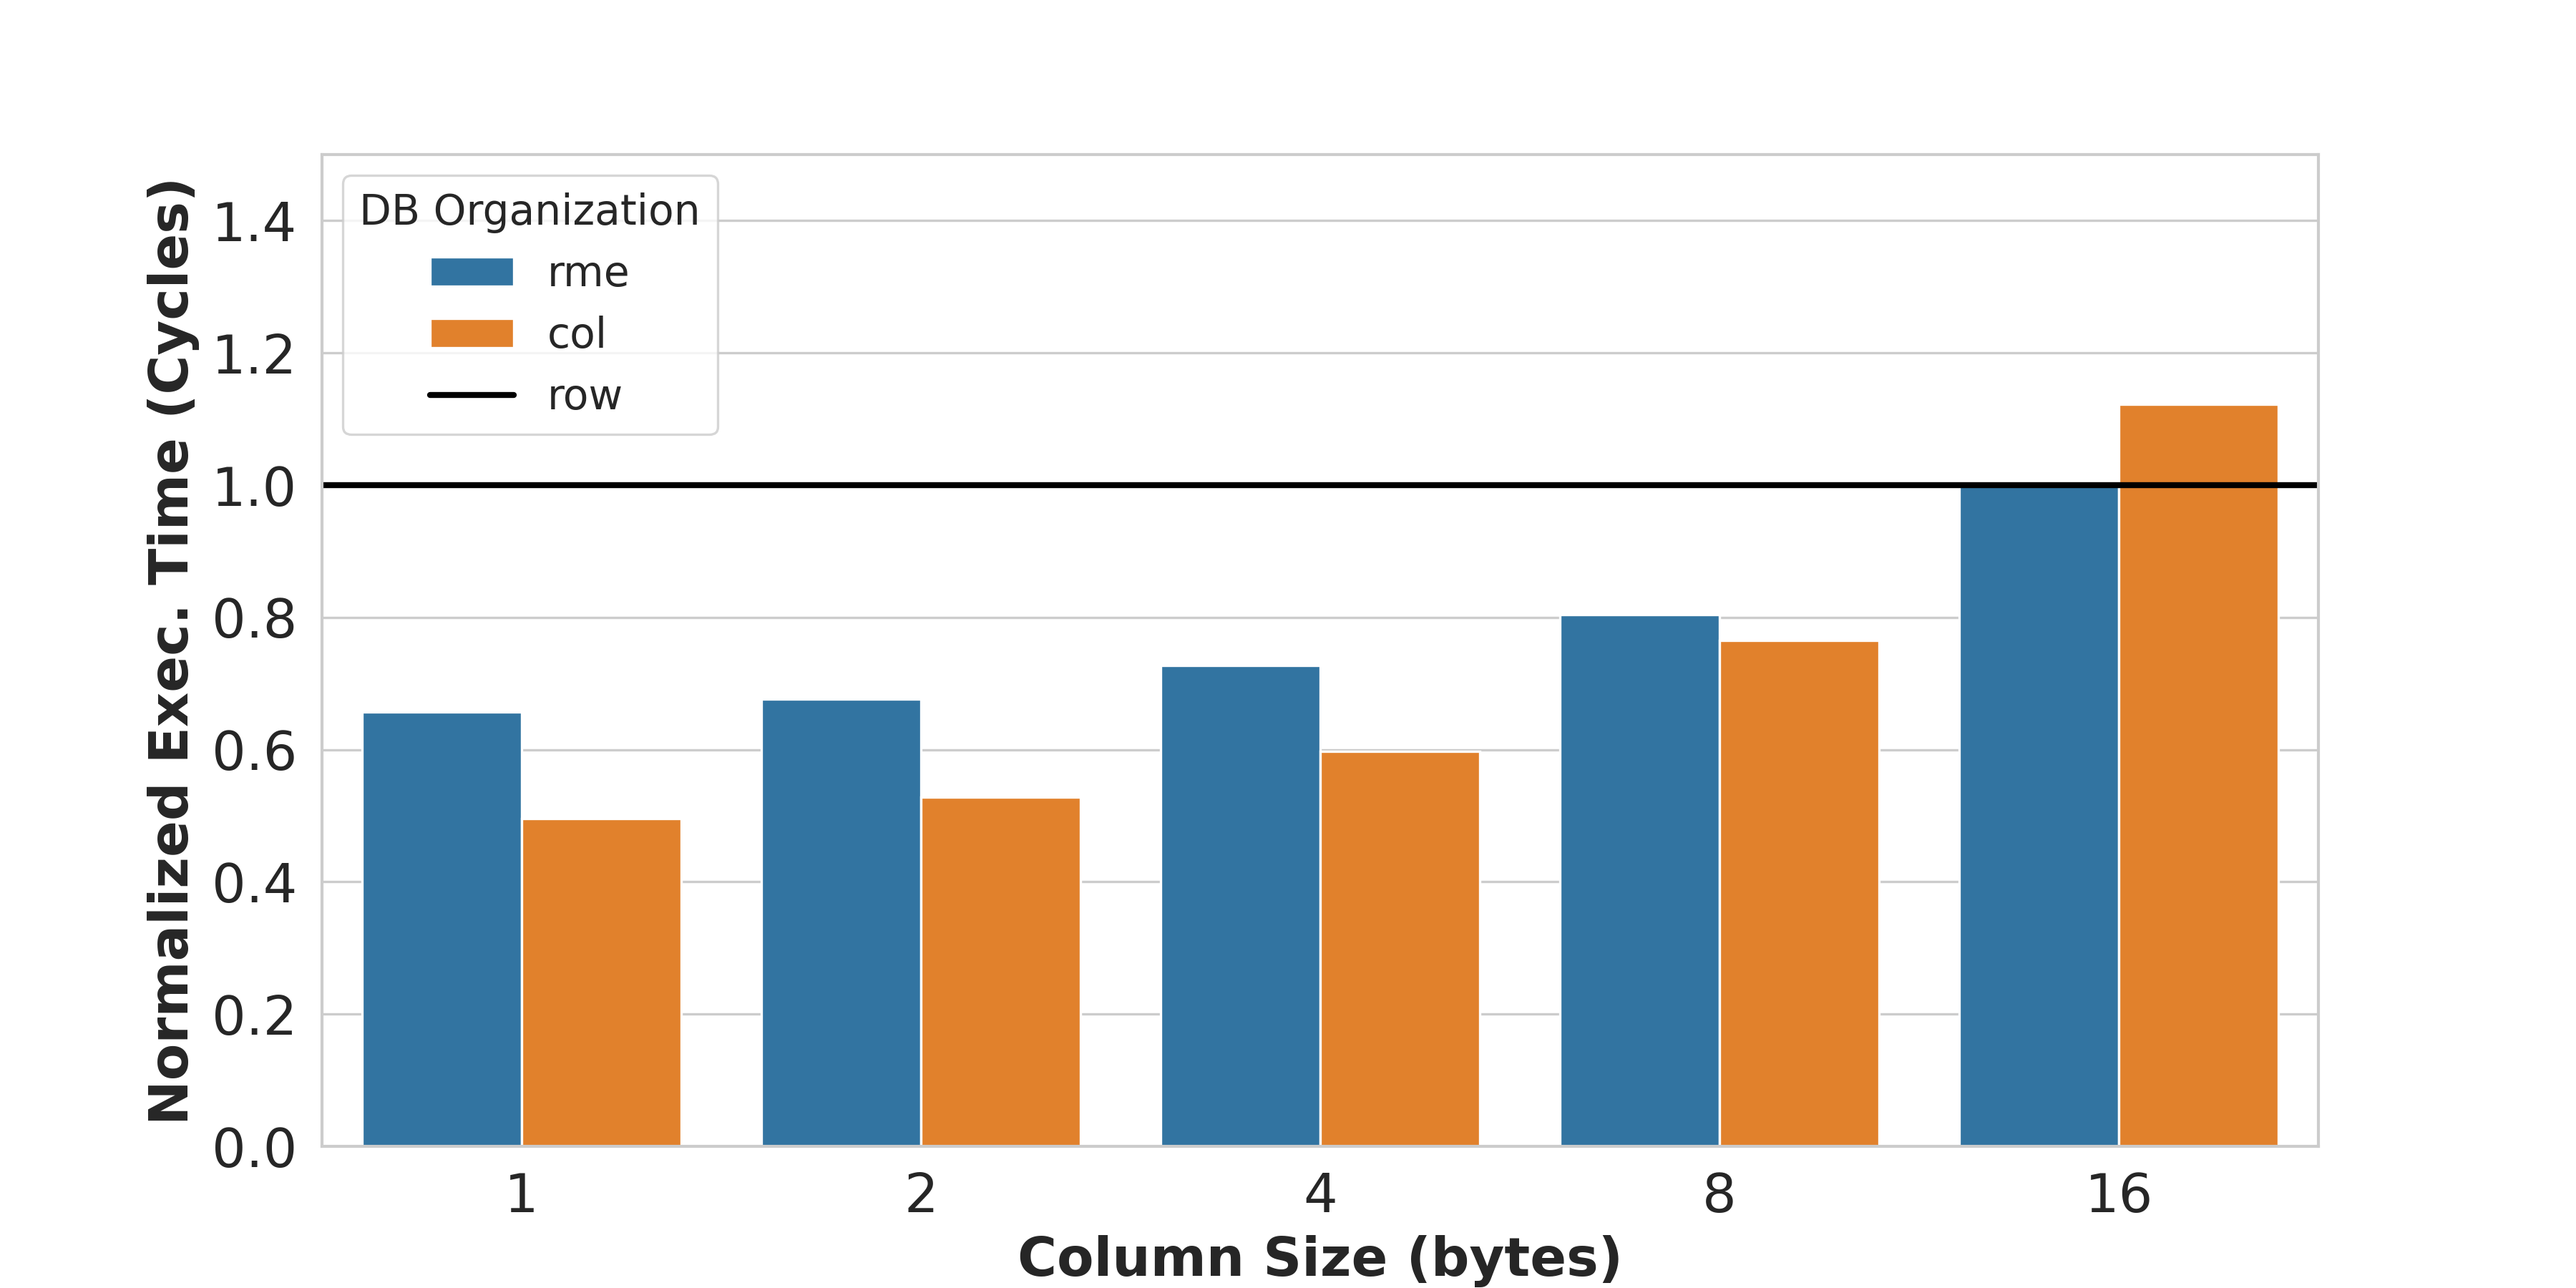
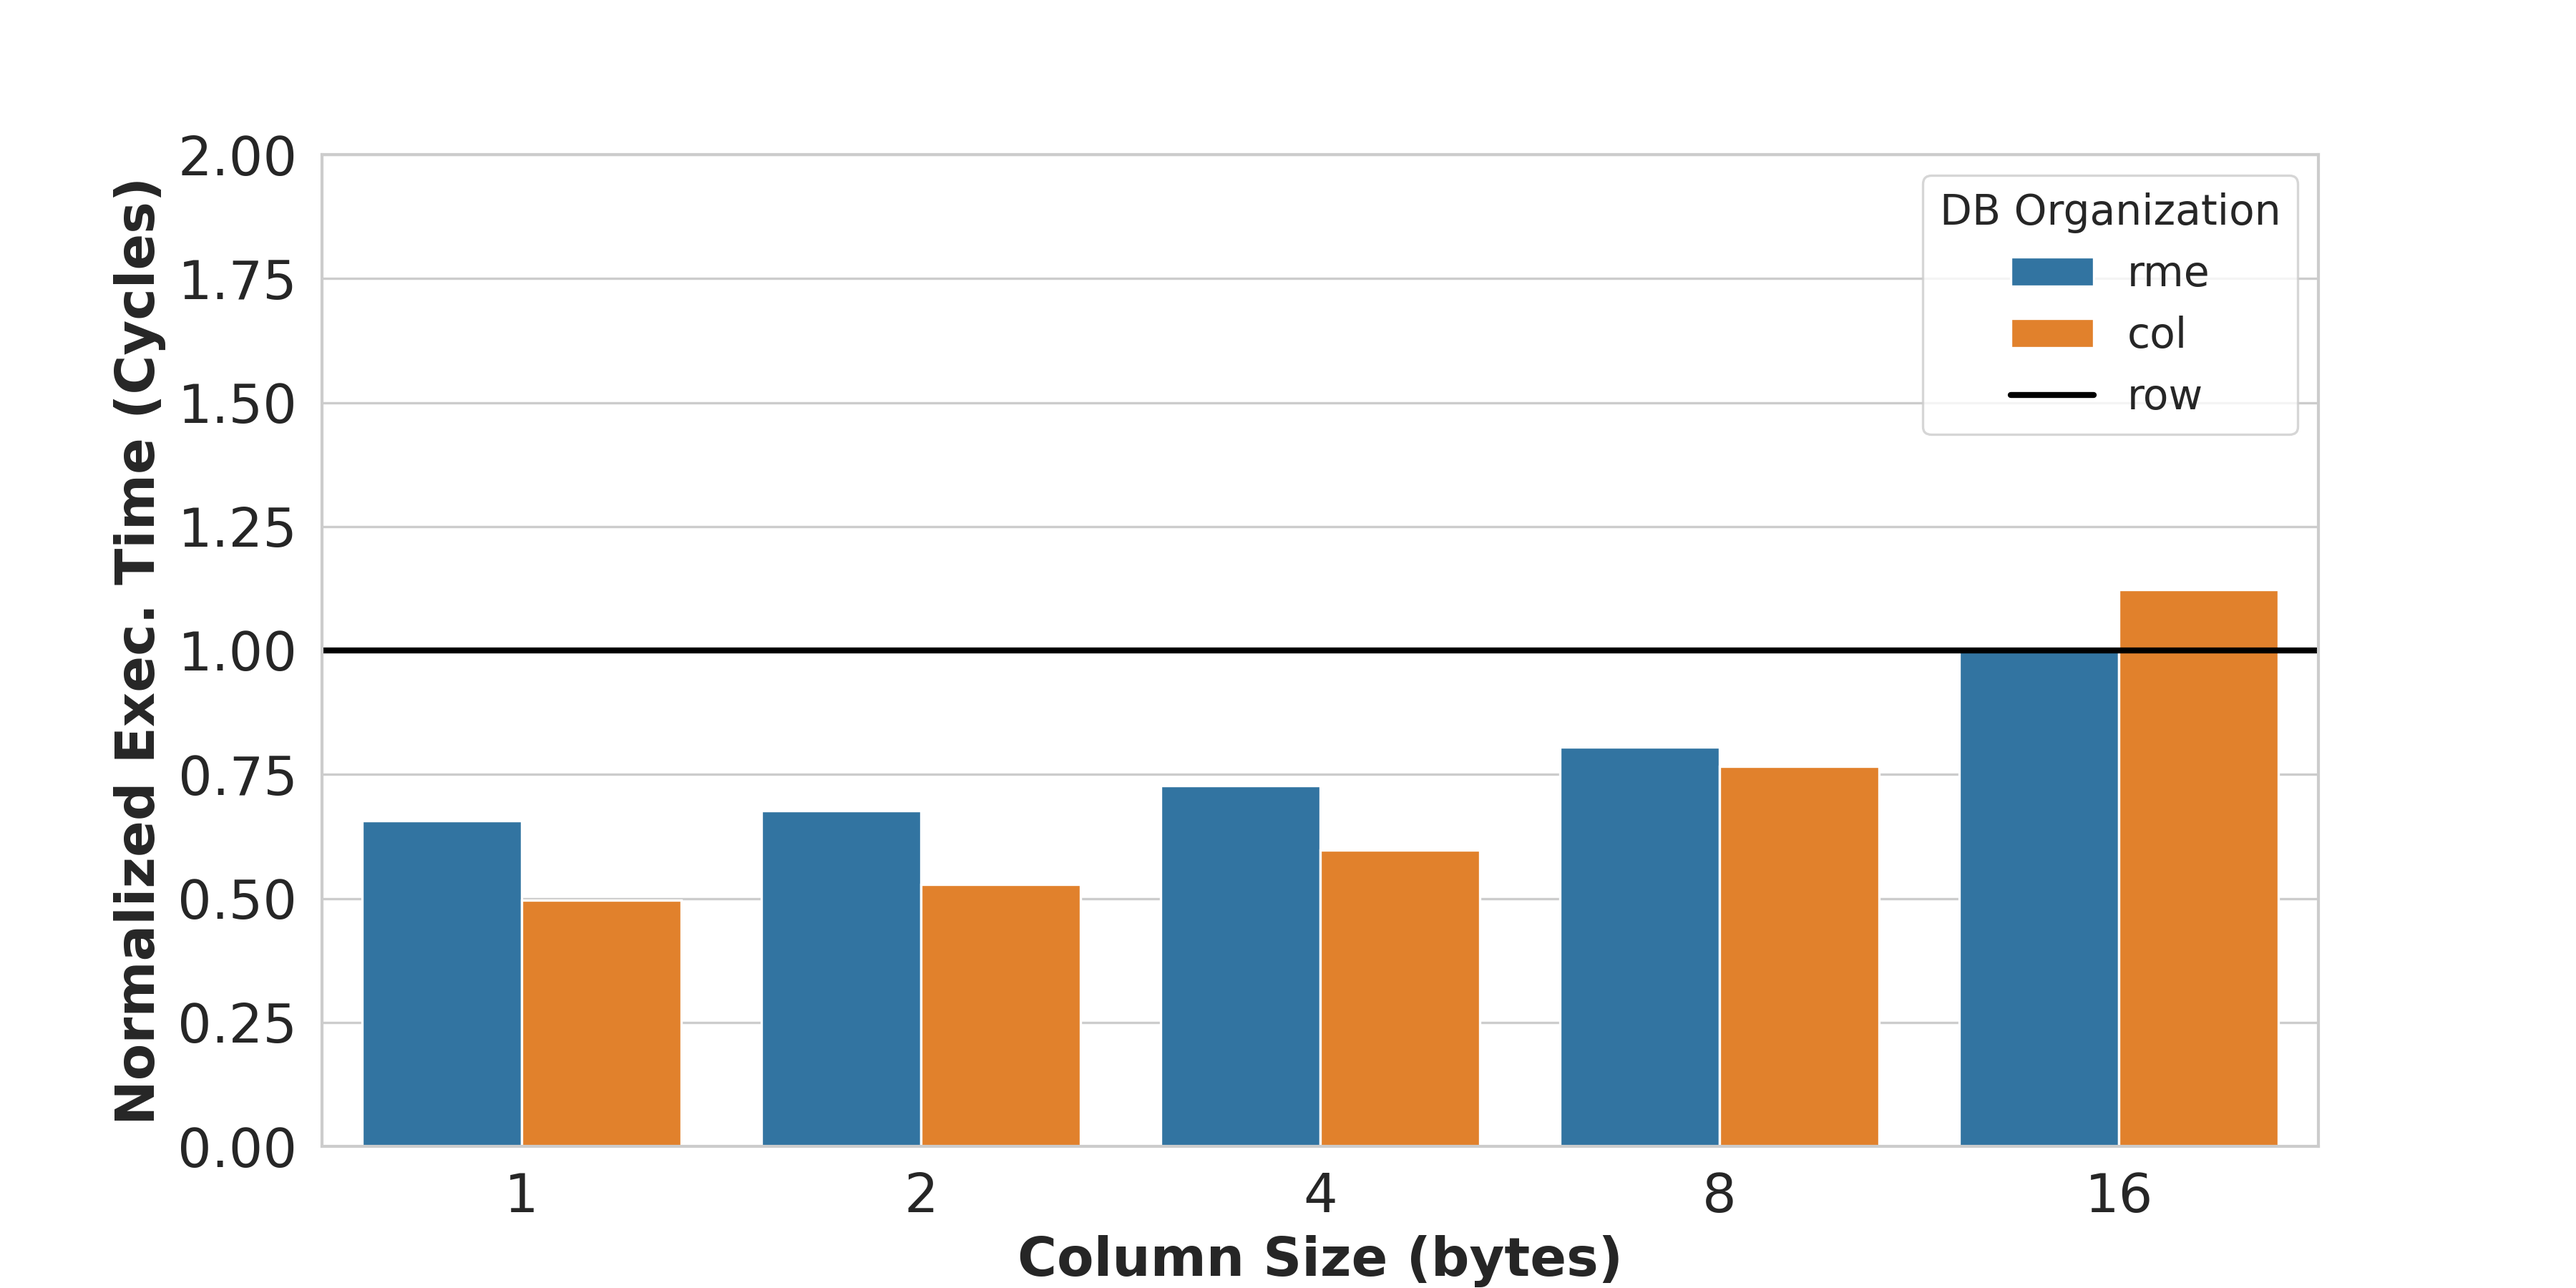
update fig 7 rocket

Changed region(s): [[0.0311, 0.0933, 0.9022, 0.9022], [0.7467, 0.1244, 0.9022, 0.3111]]

diff --git a/fig7_prefetch_rocket.py b/fig7_prefetch_rocket.py
@@ -46,7 +46,7 @@ plt.yticks(fontsize=18)
 plt.axhline(y=1.0, color="black", linestyle="-", linewidth=2, label="row")
 
 # Labels and title
-plt.ylim((0.0, 1.5))
+plt.ylim((0.0, 2.0))
 plt.xlabel("Column Size (bytes)", fontsize=18, fontweight="bold")
 plt.ylabel("Normalized Exec. Time (Cycles)", fontsize=18, fontweight="bold")
 #plt.title("Fig 7 Rocket With Prefetchers")

diff --git a/fig7_rocket.py b/fig7_rocket.py
@@ -47,7 +47,7 @@ plt.yticks(fontsize=18)
 plt.axhline(y=1.0, color="black", linestyle="-", linewidth=2, label="row")
 
 # Labels and title
-plt.ylim((0.0, 1.5))
+plt.ylim((0.0, 2.0))
 plt.xlabel("Column Size (bytes)", fontsize=18, fontweight="bold")
 plt.ylabel("Normalized Exec. Time (Cycles)", fontsize=18, fontweight="bold")
 #plt.title("Fig 7 Rocket")
